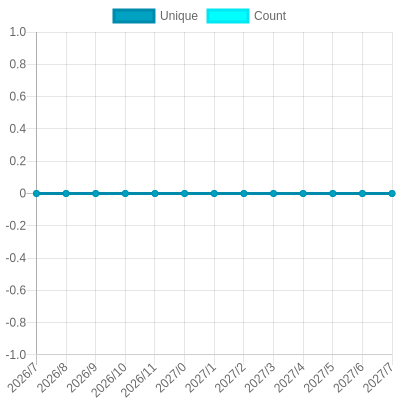
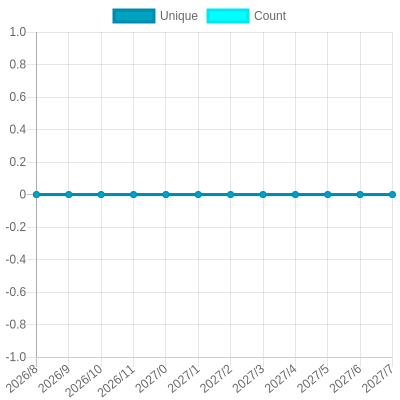
Update views

diff --git a/README.md b/README.md
@@ -26,7 +26,7 @@ The project created and maintained by [gayanvoice](https://github.com/gayanvoice
 			</a>
 		</td>
 		<td>
-			2026/8/29 6:32 AM UTC
+			2026/8/30 4:45 AM UTC
 		</td>
 		<td>
 			3
@@ -37,7 +37,7 @@ The project created and maintained by [gayanvoice](https://github.com/gayanvoice
 	</tr>
 </table>
 
-<small><i>Last updated on 2026/8/31 10:40 PM UTC</i></small>
+<small><i>Last updated on 2026/9/1 4:28 AM UTC</i></small>
 
 ## ✂Copy and 📋 Paste
 ### Total Views Badge

diff --git a/readme/812208184/year.md b/readme/812208184/year.md
@@ -150,21 +150,10 @@
 			<code>0</code>
 		</td>
 	</tr>
-	<tr>
-		<td>
-			<code>2025/8/1</code>
-		</td>
-		<td>
-			<code>0</code>
-		</td>
-		<td>
-			<code>0</code>
-		</td>
-	</tr>
 </table>
 
 </details>
-<small><i>Last updated on 2026/8/31 10:40 PM UTC</i></small>
+<small><i>Last updated on 2026/9/1 4:28 AM UTC</i></small>
 
 ## ✂Copy and 📋 Paste
 ### SVG Badge
